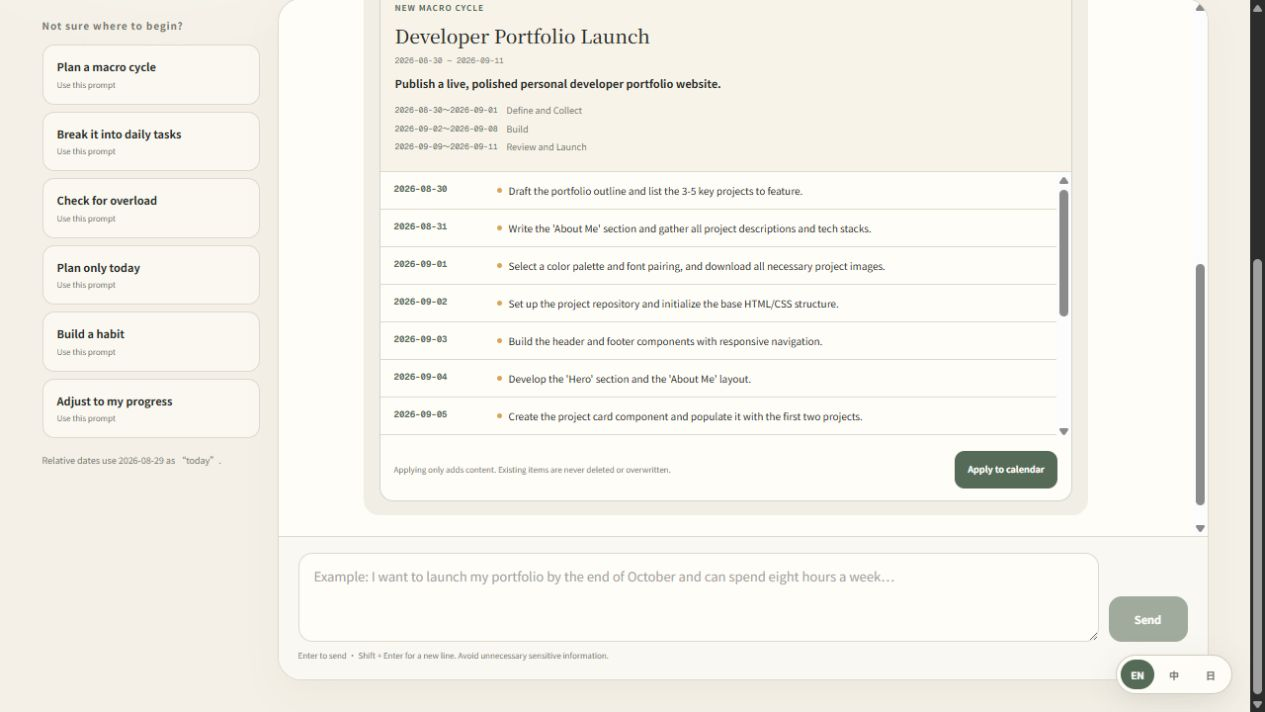
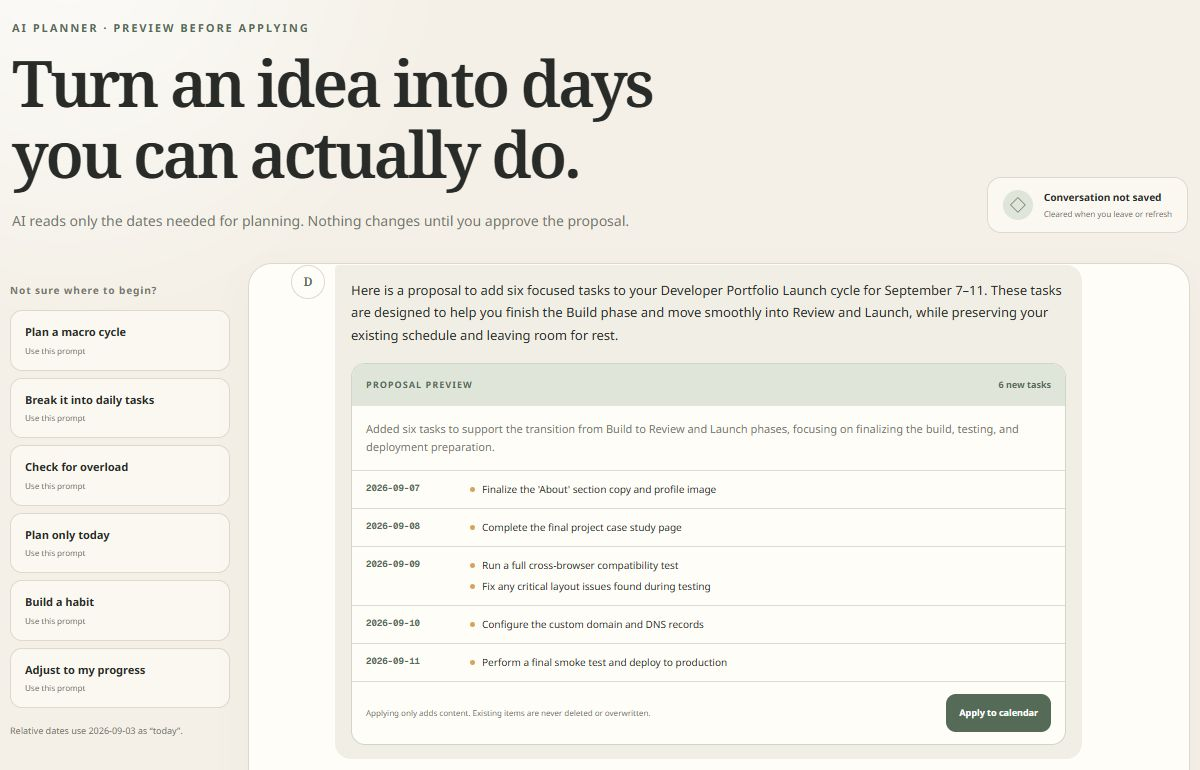
docs: expand readme product showcase
- add a four-step visual story for AI proposals, macro cycles, daily execution, and habit reflection
- keep English, Traditional Chinese, and Japanese README image references and alt text aligned
- use fictional demo data that contains no private calendar information

diff --git a/README.md b/README.md
@@ -12,13 +12,15 @@ An AI-assisted calendar for planning macro cycles, building daily habits, and le
 
 </div>
 
-![Daybook AI planner turning a goal into a macro cycle and daily tasks](docs/images/ai-planner-demo.png)
+![Daybook AI planner previewing six dated tasks before applying them](docs/images/ai-planner-demo.png)
 
 ## Why Daybook?
 
 Most task lists begin with *what should I do today?* Daybook begins one level higher: *what am I trying to change, and what is the smallest useful action now?*
 
 Set a time-bounded macro cycle, describe the outcome, divide it into phases, and connect each daily task to the larger direction. The built-in AI planner can read the relevant dates, respect existing commitments, and prepare a proposal for review. Nothing is written until you approve it.
+
+![A Daybook macro cycle with its goal, phases, progress, and completion reward](docs/images/macro-cycle.png)
 
 ## What makes it different
 
@@ -35,6 +37,8 @@ Set a time-bounded macro cycle, describe the outcome, divide it into phases, and
 - **Private accounts and device sync** — use Google or a username and password. Each account has isolated calendar data that follows it across devices.
 - **Agent-ready** — a local CLI lets an authorized coding agent read and update the same calendar without direct database access.
 
+![A Daybook day configured with morning, afternoon, and evening sections, showing two tasks linked to a macro cycle](docs/images/daily-sections.png)
+
 ## Inspired by *Atomic Habits*
 
 Daybook turns several ideas from James Clear's habit framework into practical planning controls:
@@ -43,6 +47,8 @@ Daybook turns several ideas from James Clear's habit framework into practical pl
 - make the starting cue explicit;
 - reduce resistance with a two-minute first action;
 - make progress visible and recover quickly after a missed occurrence.
+
+![A recurring Daybook task showing identity, cue, two-minute start, and streak beside the daily reflection](docs/images/habit-reflection.png)
 
 Read the official [Atomic Habits summary](https://jamesclear.com/atomic-habits-summary) or [book introduction](https://jamesclear.com/atomic-habits). Daybook is an independent open-source project and is not affiliated with James Clear.
 
